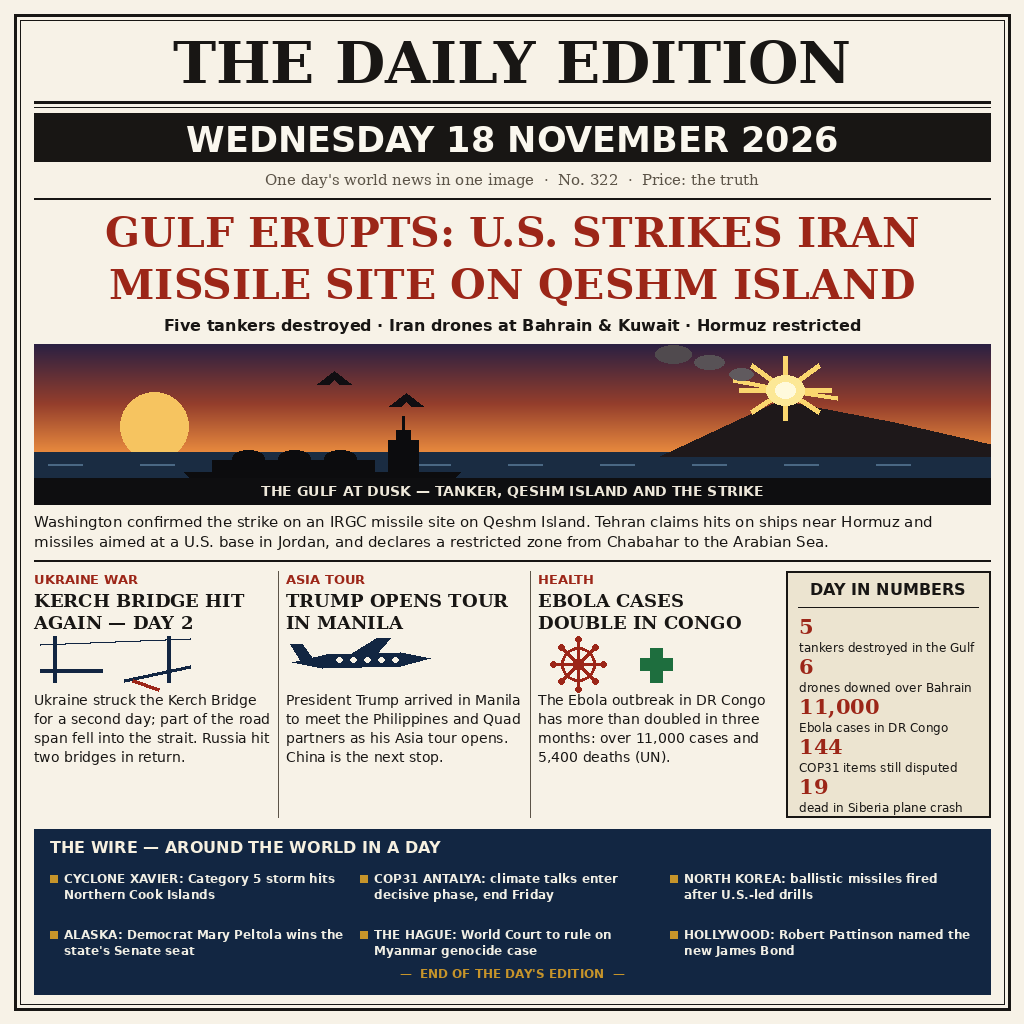
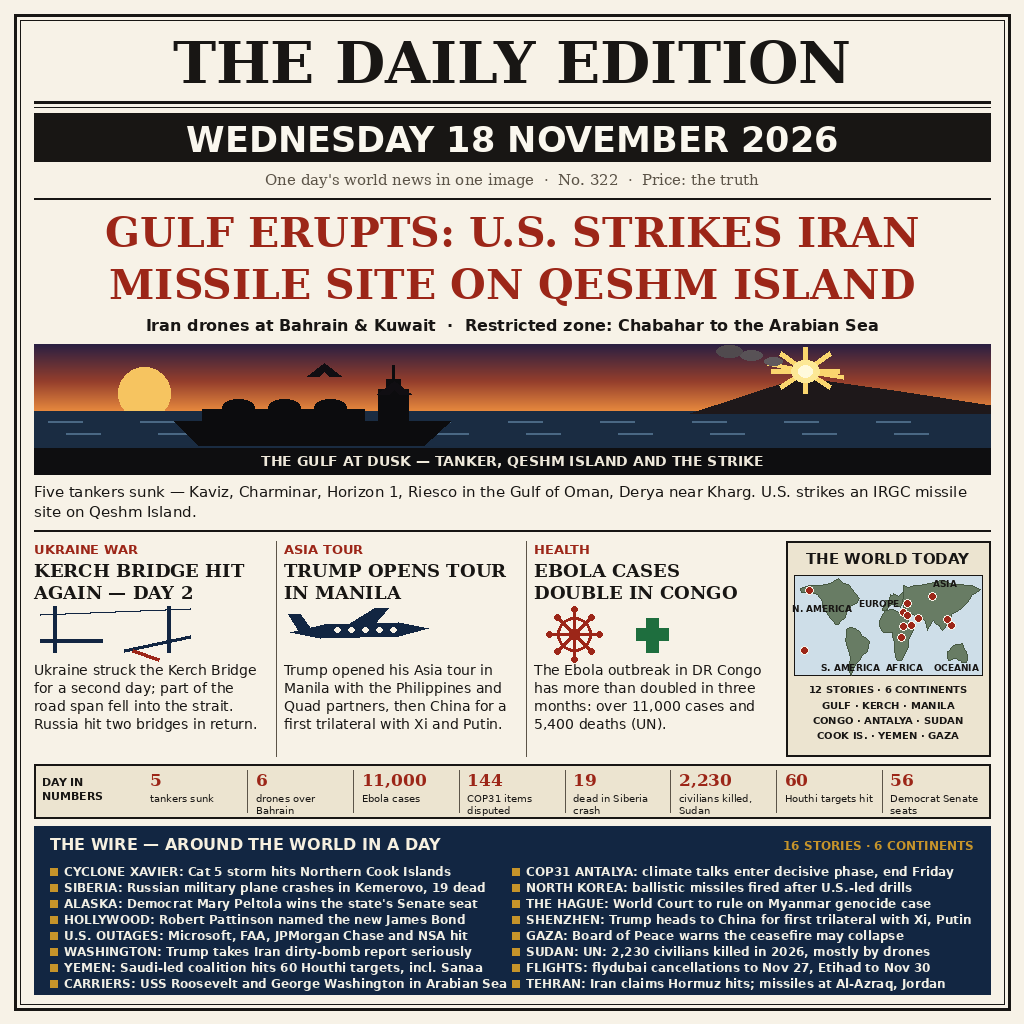
Round 3: denser broadsheet — world-map panel, 8-number strip, 16-item wire (28 stories, 6 continents)
- Schematic world map with 12 story pins and continent labels
- DAY IN NUMBERS strip grows 5 -> 8 (adds Sudan 2,230, Houthi 60, Senate 56)
- Wire band grows 6 -> 16 items, incl. afternoon verified facts
  (Shenzhen trilateral, US outages, Gaza ceasefire warning, Sudan,
  Yemen strikes, flight cancellations, carriers, Tehran claims)
- Hero now names all five tankers sunk (Kaviz, Charminar, Horizon 1,
  Riesco, Derya); hero scene re-laid-out height-aware (130px)
- entry.png 146,162 B, 1024x1024, sha256-verified deterministic

Changed region(s): [[0.0312, 0.3125, 0.9688, 0.9688]]

diff --git a/build_image.py b/build_image.py
@@ -1,12 +1,17 @@
 #!/usr/bin/env python3
-"""Draw 'The Daily Edition — Wednesday 18 November 2026'.
+"""Draw 'The Daily Edition — Wednesday 18 November 2026' (round 3).
 
-A single-page broadsheet front page that sums up the world news of
-Wednesday 18 November 2026 in one 1024x1024 image.  Every element is
-drawn deterministically with Pillow from the string constants below:
-no randomness, no network, no external assets beyond system fonts.
+A denser broadsheet front page that sums up the world news of
+Wednesday 18 November 2026 in one 1024x1024 image: the proven round-2
+form (masthead + full date, Gulf-escalation hero, three columns) plus
+a schematic world-map panel with story pins on six continents, an
+eight-number DAY IN NUMBERS strip and a sixteen-item wire band —
+28 distinct story items in total.  Every element is drawn
+deterministically with Pillow from the string constants below: no
+randomness, no network, no external assets beyond system fonts.
 Running this file rewrites entry.png next to it, byte for byte the
-same on every run.
+same on every run.  All facts come from the verified lists in
+hidden_files/idea-funnel.md only.
 """
 
 from pathlib import Path
@@ -18,10 +23,13 @@ W = H = 1024
 PAPER = (247, 242, 231)
 INK = (24, 22, 20)
 FADED = (92, 84, 72)
-RULE = (24, 22, 20)
 ACCENT = (156, 38, 24)
 NAVY = (18, 38, 66)
 GOLD = (198, 148, 42)
+TAN = (236, 228, 208)
+SEA = (206, 222, 232)
+LAND = (104, 124, 100)
+LAND_LINE = (70, 88, 66)
 
 FONT_DIR = Path("/usr/share/fonts/truetype/dejavu")
 SERIF_BOLD = str(FONT_DIR / "DejaVuSerif-Bold.ttf")
@@ -69,12 +77,17 @@ def block(draw, x, y, s, fnt, width, leading, fill=INK):
 
 # ---------------------------------------------------------------- scenes
 def hero_scene(draw, x0, y0, x1, y1):
-    """Dusk over the Gulf: a tanker at sea, Qeshm Island, a strike burst."""
+    """Dusk over the Gulf: a tanker at sea, Qeshm Island, a strike burst.
+
+    Laid out from the scene height so the tanker, island and burst
+    always stay above the caption strip at the bottom.
+    """
+    hh = y1 - y0
+    sea_y = y0 + int(hh * 0.52)
     # sky: horizontal bands from deep dusk purple down to ember orange
     sky_top = (43, 32, 66)
     sky_mid = (148, 62, 44)
     sky_low = (232, 138, 62)
-    sea_y = y0 + int((y1 - y0) * 0.68)
     for yy in range(y0, sea_y):
         t = (yy - y0) / max(1, sea_y - y0)
         if t < 0.55:
@@ -85,34 +98,34 @@ def hero_scene(draw, x0, y0, x1, y1):
             col = tuple(int(sky_mid[i] + (sky_low[i] - sky_mid[i]) * k) for i in range(3))
         draw.line([(x0, yy), (x1, yy)], fill=col)
     # sun disc low on the horizon
-    sun_cx, sun_cy, sun_r = x0 + 120, sea_y - 26, 34
+    sun_cx, sun_cy, sun_r = x0 + 110, sea_y - 18, 26
     draw.ellipse([sun_cx - sun_r, sun_cy - sun_r, sun_cx + sun_r, sun_cy + sun_r],
                  fill=(246, 196, 96))
     # sea
     draw.rectangle([x0, sea_y, x1, y1], fill=(26, 44, 66))
-    for i, yy in enumerate(range(sea_y + 12, y1 - 6, 14)):
+    for i, yy in enumerate(range(sea_y + 10, y1 - 30, 12)):
         off = 18 if i % 2 else 0
         for xx in range(x0 + 14 + off, x1 - 60, 92):
             draw.line([(xx, yy), (xx + 34, yy)], fill=(74, 104, 132), width=2)
     # Qeshm Island: a dark headland on the right
-    draw.polygon([(x1 - 330, sea_y + 4), (x1 - 210, sea_y - 52),
-                  (x1 - 96, sea_y - 30), (x1, sea_y - 8), (x1, sea_y + 4)],
+    draw.polygon([(x1 - 300, sea_y + 2), (x1 - 190, sea_y - 34),
+                  (x1 - 90, sea_y - 20), (x1, sea_y - 6), (x1, sea_y + 2)],
                  fill=(30, 24, 26))
     # strike burst above the island: star of rays + core
-    bx, by = x1 - 205, sea_y - 62
-    for dx, dy in [(-46, 0), (46, 0), (0, -34), (0, 30), (-34, -25),
-                   (34, -25), (-34, 22), (34, 22), (-52, -10), (52, 8)]:
+    bx, by = x1 - 185, sea_y - 40
+    for dx, dy in [(-34, 0), (34, 0), (0, -24), (0, 22), (-25, -18),
+                   (25, -18), (-25, 16), (25, 16), (-38, -8), (38, 6)]:
         draw.line([(bx, by), (bx + dx, by + dy)], fill=(250, 214, 110), width=5)
-    draw.ellipse([bx - 19, by - 15, bx + 19, by + 15], fill=(252, 232, 150))
-    draw.ellipse([bx - 10, by - 8, bx + 10, by + 8], fill=(255, 250, 220))
+    draw.ellipse([bx - 14, by - 11, bx + 14, by + 11], fill=(252, 232, 150))
+    draw.ellipse([bx - 7, by - 6, bx + 7, by + 6], fill=(255, 250, 220))
     # smoke plume drifting sideways from the burst, kept inside the scene
-    for i, (sx, sy, sr) in enumerate([(bx - 44, by - 16, 12), (bx - 76, by - 28, 15),
-                                      (bx - 112, by - 36, 18)]):
+    for i, (sx, sy, sr) in enumerate([(bx - 32, by - 10, 9), (bx - 54, by - 16, 11),
+                                      (bx - 76, by - 20, 13)]):
         shade = 96 - i * 8
         draw.ellipse([sx - sr, sy - sr // 2, sx + sr, sy + sr // 2],
                      fill=(shade, shade - 6, shade - 2))
     # tanker silhouette on the left: long hull, three deck tanks, tower aft
-    hx, hy = x0 + 150, sea_y + 20
+    hx, hy = x0 + 140, sea_y + 10
     hull = [(hx, hy), (hx + 276, hy), (hx + 250, hy + 24), (hx + 24, hy + 24)]
     draw.polygon(hull, fill=(12, 12, 14))
     draw.rectangle([hx + 28, hy - 12, hx + 190, hy], fill=(12, 12, 14))   # deck line
@@ -121,9 +134,8 @@ def hero_scene(draw, x0, y0, x1, y1):
     draw.rectangle([hx + 204, hy - 32, hx + 234, hy], fill=(12, 12, 14))  # bridge tower
     draw.rectangle([hx + 212, hy - 42, hx + 226, hy - 32], fill=(12, 12, 14))
     draw.line([(hx + 219, hy - 42), (hx + 219, hy - 56)], fill=(12, 12, 14), width=3)
-    draw.line([(hx + 60, hy + 30), (hx + 220, hy + 30)], fill=(74, 104, 132), width=2)
     # two drones as small chevrons in the upper sky
-    for cx, cy in [(x0 + 300, y0 + 34), (x0 + 372, y0 + 56)]:
+    for cx, cy in [(x0 + 290, y0 + 26), (x0 + 360, y0 + 44)]:
         draw.polygon([(cx - 17, cy + 6), (cx, cy - 7), (cx + 17, cy + 6),
                       (cx + 5, cy + 6), (cx, cy + 1), (cx - 5, cy + 6)],
                      fill=(16, 14, 18))
@@ -172,6 +184,97 @@ def virus_icon(draw, x, y):
     draw.rectangle([px, py + 10, px + 32, py + 22], fill=(30, 110, 62))
 
 
+# ---------------------------------------------------------------- world map
+# Schematic continent outlines as (lon, lat) points, hand-drawn for this
+# page.  Equirectangular projection: lon -180..180 across, lat 85..-55 down.
+CONTINENTS = [
+    [(-168, 66), (-150, 70), (-130, 71), (-110, 73), (-95, 80), (-85, 73),
+     (-75, 72), (-65, 60), (-55, 52), (-60, 45), (-70, 42), (-75, 35),
+     (-80, 32), (-81, 26), (-90, 21), (-95, 16), (-100, 16), (-105, 20),
+     (-110, 24), (-117, 32), (-125, 40), (-125, 48), (-135, 58),
+     (-150, 60), (-165, 60), (-168, 66)],                                    # N America
+    [(-79, 9), (-72, 11), (-62, 10), (-55, 6), (-50, 0), (-44, -3),
+     (-35, -8), (-38, -15), (-40, -22), (-48, -28), (-55, -34), (-62, -40),
+     (-68, -50), (-70, -55), (-73, -50), (-73, -40), (-72, -30),
+     (-75, -20), (-80, -12), (-81, -5), (-80, 0), (-79, 9)],                 # S America
+    [(-17, 15), (-16, 20), (-10, 30), (-5, 35), (10, 37), (20, 32),
+     (30, 31), (35, 28), (40, 20), (43, 12), (48, 11), (51, 10), (46, 5),
+     (40, -5), (40, -15), (36, -22), (32, -28), (26, -34), (19, -35),
+     (15, -30), (12, -18), (13, -10), (9, -1), (9, 4), (-8, 5),
+     (-13, 8), (-17, 15)],                                                    # Africa
+    [(-10, 36), (-9, 43), (-2, 48), (-4, 49), (0, 50), (3, 52), (5, 58),
+     (8, 57), (10, 59), (18, 56), (21, 55), (24, 58), (28, 60), (30, 62),
+     (30, 70), (35, 68), (40, 67), (45, 65), (40, 60), (35, 55), (30, 50),
+     (28, 45), (23, 40), (19, 42), (12, 44), (8, 44), (3, 42), (-1, 37),
+     (-6, 36), (-10, 36)],                                                    # Europe
+    [(30, 70), (40, 68), (50, 70), (60, 70), (70, 72), (80, 73), (90, 75),
+     (100, 77), (110, 76), (120, 73), (130, 72), (140, 72), (150, 70),
+     (160, 70), (170, 67), (178, 65), (170, 60), (162, 58), (158, 52),
+     (150, 45), (142, 40), (135, 35), (128, 33), (122, 30), (120, 22),
+     (112, 15), (108, 10), (104, 8), (100, 10), (98, 15), (92, 16),
+     (88, 22), (85, 20), (80, 13), (76, 8), (72, 20), (68, 23), (62, 25),
+     (58, 26), (54, 26), (50, 28), (48, 30), (44, 29), (40, 32), (36, 36),
+     (33, 38), (30, 40), (30, 45), (28, 50), (30, 55), (30, 62),
+     (30, 70)],                                                               # Asia
+    [(113, -22), (114, -30), (115, -35), (120, -34), (126, -32),
+     (129, -32), (132, -32), (135, -35), (138, -35), (140, -38),
+     (145, -38), (150, -37), (153, -32), (153, -27), (150, -22),
+     (146, -19), (142, -11), (137, -12), (132, -12), (126, -14),
+     (122, -17), (117, -20), (113, -22)],                                     # Australia
+]
+
+# Story locations pinned on the map: Gulf, Kerch, Manila, Congo,
+# Antalya, Cook Islands, Kemerovo, Alaska, Sudan, Yemen, Shenzhen, Gaza.
+# The four eastern-Mediterranean / Gulf pins are nudged a few degrees
+# apart so the cluster stays readable at this scale.
+PINS = [(58, 24), (36.5, 45), (121, 14.6), (25, -2), (29, 33),
+        (-160, -21), (86, 55.4), (-150, 64), (30, 13), (45, 15),
+        (114, 22.5), (38, 28)]
+
+# Continent labels, placed on the sea beside each landmass so no pin
+# sits on a word; dark ink on the pale sea.
+MAP_LABELS = [("N. AMERICA", -125, 45), ("S. AMERICA", -72, -38),
+              ("EUROPE", -16, 52), ("AFRICA", 32, -38), ("ASIA", 110, 80),
+              ("OCEANIA", 132, -38)]
+
+
+def map_panel(draw, x0, y0, x1, y1):
+    """Schematic world map with a pin per story region, six continents."""
+    draw.rectangle([x0, y0, x1, y1], fill=TAN, outline=INK, width=2)
+    centred(draw, (x0 + x1) // 2, y0 + 9, "THE WORLD TODAY",
+            font(SANS_BOLD, 15))
+    mx0, my0 = x0 + 8, y0 + 34
+    mw, mh = (x1 - x0) - 16, 100
+    draw.rectangle([mx0, my0, mx0 + mw, my0 + mh], fill=SEA, outline=INK, width=1)
+
+    def proj(lon, lat):
+        return (mx0 + (lon + 180) / 360 * mw,
+                my0 + (85 - lat) / 140 * mh)
+
+    for poly in CONTINENTS:
+        draw.polygon([proj(lon, lat) for lon, lat in poly],
+                     fill=LAND, outline=LAND_LINE)
+    for name, lon, lat in MAP_LABELS:
+        px, py = proj(lon, lat)
+        centred(draw, int(px), int(py), name, font(SANS_BOLD, 9),
+                fill=INK)
+    for lon, lat in PINS:
+        px, py = proj(lon, lat)
+        r = 3
+        draw.ellipse([px - r - 1, py - r - 1, px + r + 1, py + r + 1],
+                     fill=PAPER)
+        draw.ellipse([px - r, py - r, px + r, py + r], fill=ACCENT)
+    cy = my0 + mh + 8
+    centred(draw, (x0 + x1) // 2, cy, "12 STORIES · 6 CONTINENTS",
+            font(SANS_BOLD, 10))
+    centred(draw, (x0 + x1) // 2, cy + 16, "GULF · KERCH · MANILA",
+            font(SANS_BOLD, 10))
+    centred(draw, (x0 + x1) // 2, cy + 31, "CONGO · ANTALYA · SUDAN",
+            font(SANS_BOLD, 10))
+    centred(draw, (x0 + x1) // 2, cy + 46, "COOK IS. · YEMEN · GAZA",
+            font(SANS_BOLD, 10))
+
+
 # ---------------------------------------------------------------- page
 def build():
     img = Image.new("RGB", (W, H), PAPER)
@@ -208,34 +311,32 @@ def build():
             font(SERIF_BOLD, 41), fill=ACCENT)
     y += 56
     centred(d, W // 2, y,
-            "Five tankers destroyed · Iran drones at Bahrain & Kuwait · Hormuz restricted",
+            "Iran drones at Bahrain & Kuwait  ·  Restricted zone: Chabahar to the Arabian Sea",
             font(SANS_BOLD, 16))
     y += 28
-    hero_scene(d, M, y, R, y + 160)
-    y += 160 + 9
+    hero_scene(d, M, y, R, y + 130)
+    y += 130 + 9
     y = block(d, M, y,
-              "Washington confirmed the strike on an IRGC missile site on Qeshm Island. "
-              "Tehran claims hits on ships near Hormuz and missiles aimed at a U.S. base in "
-              "Jordan, and declares a restricted zone from Chabahar to the Arabian Sea.",
+              "Five tankers sunk — Kaviz, Charminar, Horizon 1, Riesco in the Gulf of Oman, "
+              "Derya near Kharg. U.S. strikes an IRGC missile site on Qeshm Island.",
               font(SANS, 15), R - M, 20)
     y += 7
     d.line([(M, y), (R, y)], fill=INK, width=2)
 
-    # ---- columns + numbers sidebar ------------------------------------
+    # ---- columns + world map ------------------------------------------
     top = y + 11
-    side_w = 204
-    side_x = R - side_w
+    row_h = 215
+    map_x = R - 204
     col_gap = 16
-    col_w = (side_x - M - 2 * col_gap - 12) // 3
-    col_h = 246
+    col_w = (map_x - M - col_gap - 2 * col_gap) // 3
 
     columns = [
         ("UKRAINE WAR", "KERCH BRIDGE HIT AGAIN — DAY 2", bridge_icon,
          "Ukraine struck the Kerch Bridge for a second day; part of the road "
          "span fell into the strait. Russia hit two bridges in return."),
         ("ASIA TOUR", "TRUMP OPENS TOUR IN MANILA", plane_icon,
-         "President Trump arrived in Manila to meet the Philippines and Quad "
-         "partners as his Asia tour opens. China is the next stop."),
+         "Trump opened his Asia tour in Manila with the Philippines and Quad "
+         "partners, then China for a first trilateral with Xi and Putin."),
         ("HEALTH", "EBOLA CASES DOUBLE IN CONGO", virus_icon,
          "The Ebola outbreak in DR Congo has more than doubled in three "
          "months: over 11,000 cases and 5,400 deaths (UN)."),
@@ -245,53 +346,72 @@ def build():
         d.text((cx, top), kicker, font=font(SANS_BOLD, 13), fill=ACCENT)
         yy = block(d, cx, top + 19, head, font(SERIF_BOLD, 18), col_w, 22)
         icon(d, cx + 6, yy + 2)
-        yy += 58
-        block(d, cx, yy, body, font(SANS, 14), col_w, 19)
+        block(d, cx, yy + 58, body, font(SANS, 14), col_w, 18)
         if i < 2:
             vx = cx + col_w + col_gap // 2
-            d.line([(vx, top), (vx, top + col_h)], fill=FADED, width=1)
+            d.line([(vx, top), (vx, top + row_h)], fill=FADED, width=1)
 
-    # sidebar: the day in numbers
-    d.rectangle([side_x, top, R, top + col_h], fill=(236, 228, 208),
-                outline=INK, width=2)
-    centred(d, (side_x + R) // 2, top + 9, "DAY IN NUMBERS",
-            font(SANS_BOLD, 16))
-    d.line([(side_x + 12, top + 36), (R - 12, top + 36)], fill=INK, width=1)
+    map_panel(d, map_x, top, R, top + row_h)
+
+    # ---- day in numbers strip ------------------------------------------
+    ny = top + row_h + 8
+    strip_h = 54
+    d.rectangle([M, ny, R, ny + strip_h], fill=TAN, outline=INK, width=2)
     numbers = [
-        ("5", "tankers destroyed in the Gulf"),
-        ("6", "drones downed over Bahrain"),
-        ("11,000", "Ebola cases in DR Congo"),
-        ("144", "COP31 items still disputed"),
-        ("19", "dead in Siberia plane crash"),
+        ("5", "tankers sunk"),
+        ("6", "drones over Bahrain"),
+        ("11,000", "Ebola cases"),
+        ("144", "COP31 items disputed"),
+        ("19", "dead in Siberia crash"),
+        ("2,230", "civilians killed, Sudan"),
+        ("60", "Houthi targets hit"),
+        ("56", "Democrat Senate seats"),
     ]
-    ny = top + 43
-    for big, label in numbers:
-        d.text((side_x + 13, ny), big, font=font(SERIF_BOLD, 21), fill=ACCENT)
-        block(d, side_x + 13, ny + 26, label, font(SANS, 12), side_w - 26, 15)
-        ny += 40
+    head_w = 110
+    cell_w = (R - M - head_w) / 8
+    d.text((M + 8, ny + 11), "DAY IN", font=font(SANS_BOLD, 11), fill=INK)
+    d.text((M + 8, ny + 25), "NUMBERS", font=font(SANS_BOLD, 11), fill=INK)
+    for i, (big, label) in enumerate(numbers):
+        cx = M + head_w + i * cell_w
+        if i:
+            d.line([(cx - 2, ny + 6), (cx - 2, ny + strip_h - 6)],
+                   fill=FADED, width=1)
+        d.text((cx + 6, ny + 6), big, font=font(SERIF_BOLD, 17), fill=ACCENT)
+        block(d, cx + 6, ny + 28, label, font(SANS, 10), cell_w - 12, 12)
 
     # ---- wire band ------------------------------------------------------
-    wy = top + col_h + 12
+    wy = ny + strip_h + 8
     d.rectangle([M, wy, R, H - 30], fill=NAVY)
     d.text((M + 16, wy + 9), "THE WIRE — AROUND THE WORLD IN A DAY",
            font=font(SANS_BOLD, 16), fill=(246, 240, 224))
+    right = "16 STORIES · 6 CONTINENTS"
+    d.text((R - 16 - text_w(d, right, font(SANS_BOLD, 12)), wy + 12), right,
+           font=font(SANS_BOLD, 12), fill=GOLD)
     wire = [
-        "CYCLONE XAVIER: Category 5 storm hits Northern Cook Islands",
+        "CYCLONE XAVIER: Cat 5 storm hits Northern Cook Islands",
         "COP31 ANTALYA: climate talks enter decisive phase, end Friday",
+        "SIBERIA: Russian military plane crashes in Kemerovo, 19 dead",
         "NORTH KOREA: ballistic missiles fired after U.S.-led drills",
         "ALASKA: Democrat Mary Peltola wins the state's Senate seat",
         "THE HAGUE: World Court to rule on Myanmar genocide case",
         "HOLLYWOOD: Robert Pattinson named the new James Bond",
+        "SHENZHEN: Trump heads to China for first trilateral with Xi, Putin",
+        "U.S. OUTAGES: Microsoft, FAA, JPMorgan Chase and NSA hit",
+        "GAZA: Board of Peace warns the ceasefire may collapse",
+        "WASHINGTON: Trump takes Iran dirty-bomb report seriously",
+        "SUDAN: UN: 2,230 civilians killed in 2026, mostly by drones",
+        "YEMEN: Saudi-led coalition hits 60 Houthi targets, incl. Sanaa",
+        "FLIGHTS: flydubai cancellations to Nov 27, Etihad to Nov 30",
+        "CARRIERS: USS Roosevelt and George Washington in Arabian Sea",
+        "TEHRAN: Iran claims Hormuz hits; missiles at Al-Azraq, Jordan",
     ]
-    cell_w = (R - M - 48) // 3
+    cell_w = (R - M - 32) // 2
     for i, item in enumerate(wire):
-        cx = M + 16 + (i % 3) * (cell_w + 8)
-        cy = wy + 42 + (i // 3) * 56
+        cx = M + 16 + (i % 2) * cell_w
+        cy = wy + 38 + (i // 2) * 16
         d.rectangle([cx, cy + 4, cx + 7, cy + 11], fill=GOLD)
-        block(d, cx + 14, cy, item, font(SANS_BOLD, 12), cell_w - 14, 16,
-              fill=(240, 238, 228))
-    centred(d, W // 2, H - 58, "—  END OF THE DAY'S EDITION  —",
-            font(SANS_BOLD, 12), fill=GOLD)
+        d.text((cx + 14, cy), item, font=font(SANS_BOLD, 12),
+               fill=(240, 238, 228))
 
     return img
 
